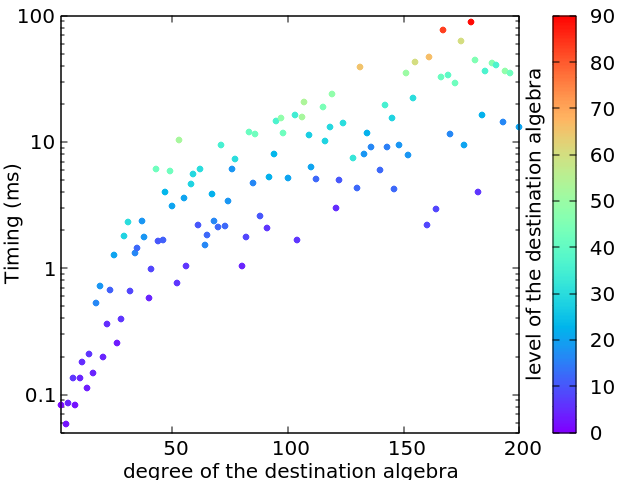
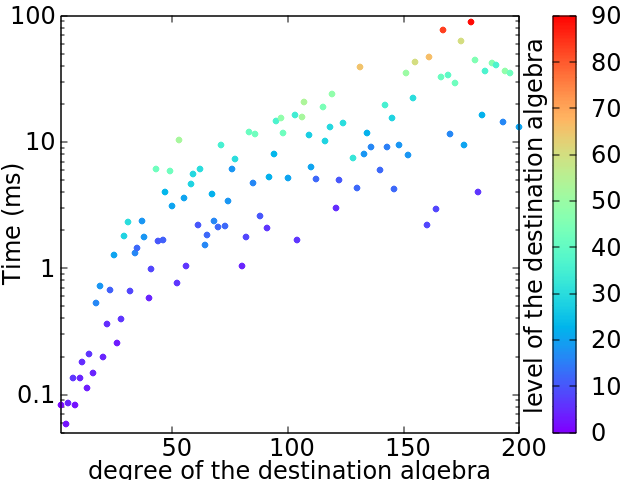
We have so much space now

diff --git a/gf-h90.tex b/gf-h90.tex
@@ -983,29 +983,47 @@ Since Algorithm~\ref{algo:std_embed} require decorated finite
 fields, we first measure the time needed by Algorithm~\ref{algo:decoration} to
 perform this task. In fact, the computations in Algorithm~\ref{algo:std_embed}
 take negligible time in comparison with the ones in
-Algorithm~\ref{algo:decoration}. The bottleneck of the decoration is the root
-extraction: this takes almost all the time.
+Algorithm~\ref{algo:decoration}. The bottleneck of the decoration being the root extraction.
 
 To measure the execution of Algorithm~\ref{algo:decoration}, we let $\ell$ grow
 from $1$ to $200$, and for each $\ell$ not divisible by $p$ such that the $\nu(\ell)$-th Conway
 polynomial is available, we add the time needed to compute the Kummer algebra
-$A_\ell$ and to decore it: this gives Figure~\ref{fig:timings-decoration}. We
+$A_\ell$ and to decore it. We
 then embed the prime field $\mathbb{F}_{p}$ in all the finite fields
 $\mathbb{F}_{p^\ell}$ that we have decorated, that leads to 
-Figure~\ref{fig:timings-embedding}
+Figure~\ref{fig:timings}
+
 \begin{figure}[h]
-  \centering
-  \includegraphics[scale=.5]{solve_h90-3.png}
-  \caption{Timings of the decoration for $p=3$.}
-  \label{fig:timings-decoration}
-\end{figure}
-\begin{figure}[h]
-  \centering
-  \includegraphics[scale=.5]{embed-3.png}
-  \caption{Timings of the embeddings from $\mathbb{F}_{p}$ for $p=3$.}
-  \label{fig:timings-embedding}
+ \includegraphics[scale=.24]{solve_h90-3.png}
+ \includegraphics[scale=.24]{embed-3.png}
+  \caption{Timings of the decoration (left) and of the embeddings from
+    $\mathbb{F}_{p}$ (right) for $p=3$.}
+  \label{fig:timings}
 \end{figure}
 
+From the solutions $\alpha_\ell$ of~\ref{h90}, we can also compute standard polynomials as the
+minimum polynomials of $\first{\alpha_\ell}{\zeta_\ell}$. For instance, with
+$p=2$ the
+first ten standard polynomials of degree not divisible by $2$ are
+
+\centering
+\small{
+\begin{tabular}[h]{cc}
+  \bf{degree} & \bf{polynomial} \\
+  $1$ & $T+1$ \\
+  $3$ & $T^3+T+1$ \\
+  $5$ & $T^5+T^3+1$ \\
+  $7$ & $T^7+T+1$ \\
+  $9$ & $T^9+T^7+T^4+T^2+1$ \\
+  $11$ & $T^{11}+T^8+T^7+T^6+T^2+T+1$\\
+  $13$ & $T^{13}+T^{10}+T^5+T^3+1$\\
+  $15$ & $T^{15}+T+1$ \\
+  $17$ & $T^{17}+T^{11}+T^{10}+T^8+$\\
+  & $T^7+T^6+T^4+T^3+T^2+T+1$ \\
+  $19$ & $T^{19}+T^{17}+T^{16}+T^{15}+T^{14}+T^{13}+$\\
+  & $T^{12}+T^8+T^7+T^6+T^5+T^3+1$
+\end{tabular}
+}
 
 
 \section{Conclusion and future work}
